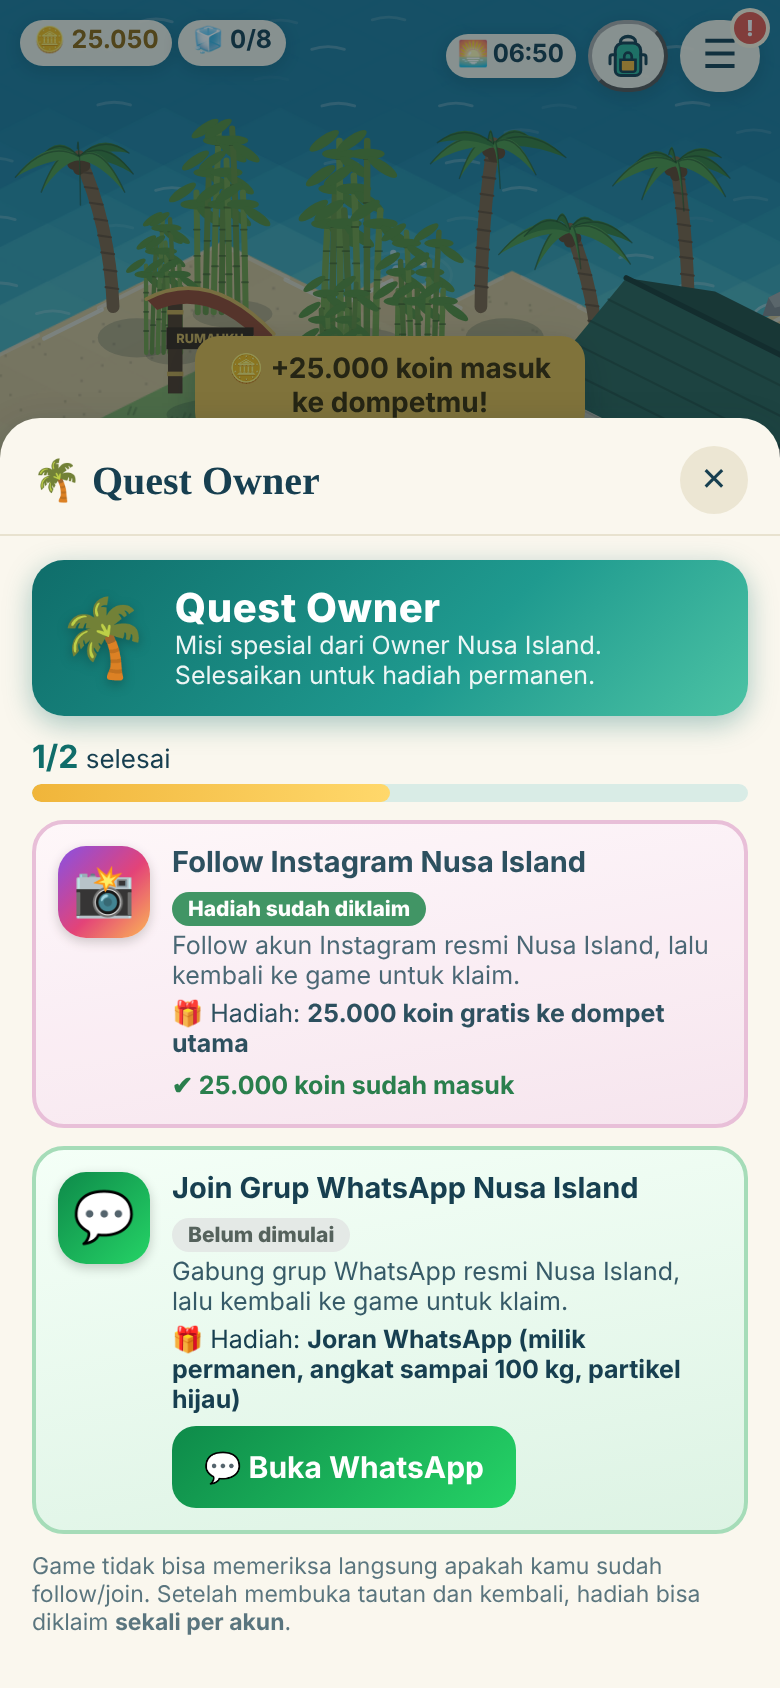
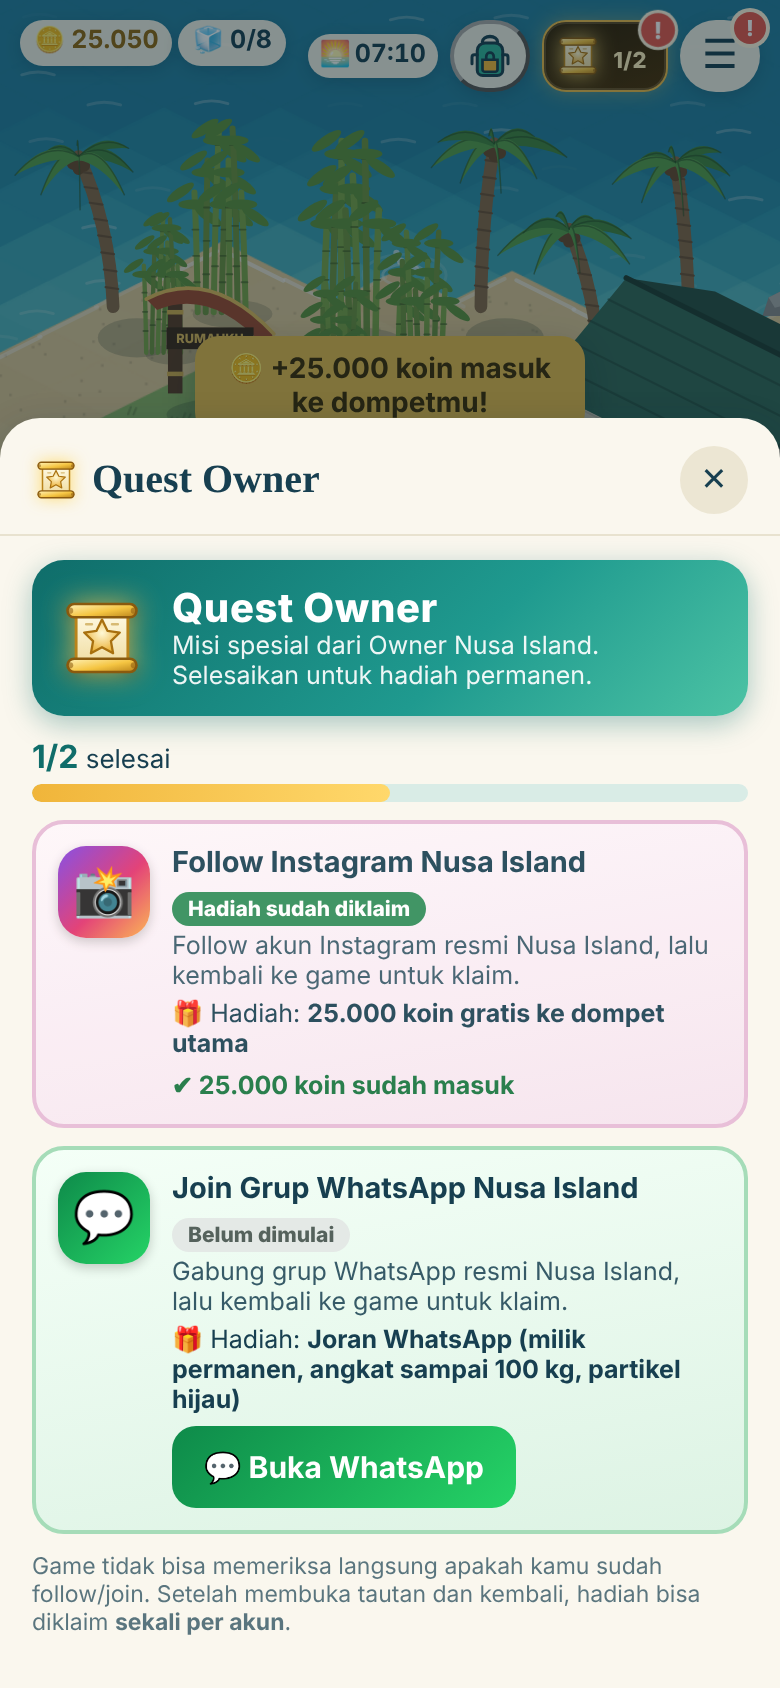
UI: tombol Quest Owner pindah ke HUD kanan atas (samping ☰) + ikon SVG gulungan emas
- Tombol mandiri (bukan .icon-btn) di samping ☰, progres 0/2 / 1/2, hilang otomatis setelah 2/2.
- Ikon emoji 🌴 diganti SVG gulungan misi emas + bintang (tombol, header panel, banner panel).
- Entri Quest Owner dihapus dari menu ☰. UI saja: quest, hadiah, joran, ekonomi, backend, Cloud Save tidak diubah.

Claude-Session: https://claude.ai/code/session_01HzrTpEtUrWmkd26RHnYqpj

diff --git a/questowner/questowner.js b/questowner/questowner.js
@@ -174,6 +174,22 @@ function rodAccent(c, bez, nrm, U, night) {
   c.restore();
 }
 
+// ---------- ikon SVG gulungan misi emas + bintang (pengganti emoji) ----------
+let iconSeq = 0;
+function icon(size) {
+  const k = "qoi" + (++iconSeq), n = size || 24;
+  return `<svg class="qo-ico" viewBox="0 0 32 32" width="${n}" height="${n}" aria-hidden="true" focusable="false"><defs>
+<linearGradient id="${k}g" x1="0" y1="0" x2="1" y2="1"><stop offset="0" stop-color="#fff2b8"/><stop offset=".55" stop-color="#f5c542"/><stop offset="1" stop-color="#b9831a"/></linearGradient>
+<linearGradient id="${k}p" x1="0" y1="0" x2="0" y2="1"><stop offset="0" stop-color="#fffbe6"/><stop offset="1" stop-color="#f0dca0"/></linearGradient>
+<radialGradient id="${k}s" cx=".5" cy=".4" r=".7"><stop offset="0" stop-color="#fff9d6"/><stop offset="1" stop-color="#e8a317"/></radialGradient></defs>
+<rect x="7" y="6.5" width="18" height="19" rx="2" fill="url(#${k}p)" stroke="#b9831a" stroke-width="1"/>
+<rect x="4" y="4.2" width="24" height="4.6" rx="2.3" fill="url(#${k}g)" stroke="#8a5a0e" stroke-width=".9"/>
+<rect x="4" y="23.2" width="24" height="4.6" rx="2.3" fill="url(#${k}g)" stroke="#8a5a0e" stroke-width=".9"/>
+<circle cx="4.9" cy="6.5" r="1.1" fill="#8a5a0e" opacity=".55"/><circle cx="27.1" cy="6.5" r="1.1" fill="#8a5a0e" opacity=".55"/><circle cx="4.9" cy="25.5" r="1.1" fill="#8a5a0e" opacity=".55"/><circle cx="27.1" cy="25.5" r="1.1" fill="#8a5a0e" opacity=".55"/>
+<path d="M16 9.6l1.9 3.9 4.3.6-3.1 3 .75 4.2L16 19.2l-3.85 2.1.75-4.2-3.1-3 4.3-.6z" fill="url(#${k}s)" stroke="#a8700f" stroke-width=".8" stroke-linejoin="round"/>
+<path d="M10.5 11.2h2M19.5 11.2h2" stroke="#c9a24a" stroke-width=".9" stroke-linecap="round" opacity=".7"/></svg>`;
+}
+
 // ---------- lencana & tombol HUD ----------
 function badge() {
   const btn = document.getElementById("questBtn"); if (!btn) return;
@@ -182,14 +198,18 @@ function badge() {
   btn.classList.toggle("hidden", finished);                         // semua selesai: tombol hilang; data & hadiah tetap
   const b = document.getElementById("questBadge"); if (b) b.classList.toggle("hidden", finished || (v.loaded && v.done >= v.total));
   btn.setAttribute("data-progress", v.loaded ? v.done + "/" + v.total : "");
+  const pg = document.getElementById("questProg"); if (pg) { const txt = v.loaded ? v.done + "/" + v.total : "0/" + v.total; if (pg.textContent !== txt) pg.textContent = txt; }
+  btn.setAttribute("aria-label", "Quest Owner: progres " + (v.loaded ? v.done : 0) + " dari " + v.total);
 }
 function hook() {
   migrate(S());
   const dex = document.getElementById("dexBtn"), hr = document.querySelector(".hud-right");
   if (hr && !document.getElementById("questBtn")) {
-    const b = document.createElement("button"); b.className = "chip icon-btn misi qo-btn"; b.id = "questBtn"; b.setAttribute("aria-label", "Quest Owner: hadiah spesial");
-    b.innerHTML = `🌴<span id="questBadge" class="badge story">!</span>`;
-    hr.insertBefore(b, document.getElementById("streakBtn") || dex || null);
+    // Tombol HUD mandiri (BUKAN .icon-btn → tidak ikut disembunyikan/ditarik ke menu ☰): berdampingan dengan ☰ di kanan atas
+    const b = document.createElement("button"); b.type = "button"; b.className = "chip qo-btn qo-hud"; b.id = "questBtn"; b.setAttribute("aria-label", "Quest Owner: hadiah spesial");
+    b.innerHTML = `${icon(24)}<span id="questProg" class="qo-prog">0/2</span><span id="questBadge" class="badge story qo-dot">!</span>`;
+    const menuBtn = document.getElementById("hudMenuBtn");
+    if (menuBtn && menuBtn.parentNode === hr) hr.insertBefore(b, menuBtn); else hr.appendChild(b);
     b.addEventListener("click", () => { sfx("click"); N().openPanel("questowner"); });
   }
   if (NW.questUI) NW.questUI.register();
@@ -212,6 +232,6 @@ document.addEventListener("click", (e) => {
   e.preventDefault(); sfx("click"); Promise.resolve(setEquip(b.getAttribute("data-qo-equip") === "1")).then(() => { try { N().renderPanel(); } catch (x) {} });
 });
 
-NW.quest = { _particles: () => P.length, Core: Q, SPEC, migrate, hook, view, refresh, open, claim, access, setEquip, rodOwned, rodOn, rodSpec, capFloor, visualOn, event, drawParticles, rodFx, rodAccent, rodRowHTML, bagCard,
+NW.quest = { icon, _particles: () => P.length, Core: Q, SPEC, migrate, hook, view, refresh, open, claim, access, setEquip, rodOwned, rodOn, rodSpec, capFloor, visualOn, event, drawParticles, rodFx, rodAccent, rodRowHTML, bagCard,
   onChange: (f) => R.listeners.push(f), _state: R };
 })();

diff --git a/questowner/questowner.css b/questowner/questowner.css
@@ -1,7 +1,7 @@
 /* NUSA ISLAND — Quest Owner. Nuansa tropis premium ringan; animasi hanya transform/opacity. */
 .qo { --teal: #1f9a8f; --teal-d: #0f6d6a; --sand: #fdf3d8; --gold: #f0b53a; padding-bottom: 8px; }
 .qo-hero { display: flex; gap: 12px; align-items: center; padding: 12px; border-radius: 16px; background: linear-gradient(135deg, #0f6d6a, #1f9a8f 60%, #4cc3a4); color: #fff; box-shadow: 0 4px 14px rgba(15, 109, 106, .35); }
-.qo-palm { font-size: 38px; line-height: 1; filter: drop-shadow(0 2px 3px rgba(0, 0, 0, .25)); }
+.qo-palm { line-height: 0; flex: 0 0 auto; filter: drop-shadow(0 0 7px rgba(255, 214, 90, .75)) drop-shadow(0 2px 3px rgba(0, 0, 0, .25)); }
 .qo-title { font-size: 20px; font-weight: 800; letter-spacing: .3px; } .qo-sub { font-size: 12.5px; opacity: .92; }
 .qo-prog { margin: 10px 0 6px; } .qo-progtxt { font-size: 13px; margin-bottom: 4px; } .qo-progtxt b { font-size: 16px; color: var(--teal-d); }
 .qo-bar { height: 9px; border-radius: 99px; background: #d9ece6; overflow: hidden; } .qo-bar i { display: block; height: 100%; border-radius: 99px; background: linear-gradient(90deg, #f0b53a, #ffd86b); transition: width .5s ease; }
@@ -26,3 +26,17 @@
 .qo-card.ready .pulse { animation: qoBeat 1.6s ease-in-out infinite; }
 @media (prefers-reduced-motion: reduce) { .qo *, .qo-bar i { animation-duration: .01ms !important; animation-iteration-count: 1 !important; transition: none !important; } }
 @media (max-width: 380px) { .qo-card { padding: 9px; gap: 9px; } .qo-ic { width: 40px; height: 40px; font-size: 22px; } }
+
+/* ---- Tombol HUD Quest Owner (kanan atas, di samping ☰) ---- */
+.hud-right > #hudMenuBtn { order: 10; }   /* ☰ tetap paling kanan; Quest Owner tepat di kirinya */
+.hud-right #questBtn.qo-hud { order: 9; position: relative; display: flex; align-items: center; justify-content: center; gap: 3px; min-width: 40px; height: 36px; padding: 0 7px 0 5px; cursor: pointer;
+  background: linear-gradient(160deg, #2b1c05, #4a3008); border: 1px solid #e8b94a; color: #ffe9a6; border-radius: 12px; box-shadow: 0 0 10px rgba(255, 205, 80, .35), inset 0 0 0 1px rgba(255, 240, 190, .18); }
+.hud-right #questBtn.qo-hud:active { transform: scale(.96); }
+.hud-right #questBtn.qo-hud:focus-visible { outline: 2px solid #fff6e0; outline-offset: 2px; }
+#questBtn .qo-ico { width: 24px; height: 24px; display: block; filter: drop-shadow(0 0 4px rgba(255, 214, 90, .8)); flex: 0 0 auto; }
+#questBtn .qo-prog { font: 800 11px/1 var(--font, system-ui); letter-spacing: .2px; color: #fff1c0; min-width: 22px; text-align: center; }
+#questBtn .qo-dot { position: absolute; top: -4px; right: -4px; min-width: 16px; height: 16px; border-radius: 8px; background: #e2574c; color: #fff; font: 800 11px/16px var(--font, system-ui); text-align: center; box-shadow: 0 0 0 1.5px #fff6e0; }
+.qo-ptitle { margin-left: 6px; vertical-align: middle; } #panelTitle .qo-ico { vertical-align: middle; filter: drop-shadow(0 0 4px rgba(255, 214, 90, .8)); }
+@media (max-width: 380px) { .hud-right #questBtn.qo-hud { min-width: 36px; padding: 0 5px 0 3px; } #questBtn .qo-ico { width: 21px; height: 21px; } #questBtn .qo-prog { font-size: 10px; min-width: 18px; } }
+@media (prefers-reduced-motion: no-preference) { #questBtn:not(.hidden) .qo-ico { animation: qoGlow 3.2s ease-in-out infinite; } }
+@keyframes qoGlow { 0%, 100% { filter: drop-shadow(0 0 3px rgba(255, 214, 90, .55)); } 50% { filter: drop-shadow(0 0 6px rgba(255, 224, 120, .95)); } }

diff --git a/questowner/ui.js b/questowner/ui.js
@@ -29,12 +29,13 @@ function render() {
   else if (v.error) note = `<div class="qo-note warn">${v.error} <button class="btn small" data-act="qoRetry">Coba Lagi</button></div>`;
   else if (v.loading && !v.loaded) note = `<div class="qo-note dim">Memuat…</div>`;
   const done = v.allDone ? `<div class="qo-note ok">🎉 Semua quest selesai! Hadiahmu permanen. Panel ini akan hilang otomatis.</div>` : "";
-  return `<div class="qo"><div class="qo-hero"><div class="qo-palm">🌴</div><div><div class="qo-title">Quest Owner</div><div class="qo-sub">Misi spesial dari Owner Nusa Island. Selesaikan untuk hadiah permanen.</div></div></div>
+  return `<div class="qo"><div class="qo-hero"><div class="qo-palm">${NW.quest ? NW.quest.icon(46) : ""}</div><div><div class="qo-title">Quest Owner</div><div class="qo-sub">Misi spesial dari Owner Nusa Island. Selesaikan untuk hadiah permanen.</div></div></div>
     <div class="qo-prog"><div class="qo-progtxt"><b>${v.loaded ? v.done : 0}/${v.total}</b> selesai</div><div class="qo-bar"><i style="width:${v.loaded ? pct : 0}%"></i></div></div>
     ${note}${done}${v.items.map((it) => card(it, v)).join("")}
     <div class="qo-fine">Game tidak bisa memeriksa langsung apakah kamu sudah follow/join. Setelah membuka tautan dan kembali, hadiah bisa diklaim <b>sekali per akun</b>.</div></div>`;
 }
 function after(body) {
+  try { const pt = document.getElementById("panelTitle"); if (pt && NW.quest) pt.innerHTML = NW.quest.icon(24) + '<span class="qo-ptitle">Quest Owner</span>'; } catch (e) {}
   clearInterval(timer);
   timer = setInterval(() => {
     if (N().currentPanel() !== "questowner") { clearInterval(timer); return; }
@@ -51,7 +52,7 @@ async function act(a, arg) {
   if (a === "qoClaim") { N().sfx("click"); const p = K.claim(arg); N().renderPanel(); await p; N().renderPanel(); }
 }
 function register() {
-  N().registerPanel("questowner", { title: () => "🌴 Quest Owner", render, act, after });
+  N().registerPanel("questowner", { title: () => "Quest Owner", render, act, after });
   NW.quest.onChange(() => { if (N().currentPanel() === "questowner") N().renderPanel(); });
 }
 NW.questUI = { register, render };

diff --git a/hud/menu.js b/hud/menu.js
@@ -14,7 +14,7 @@ const N = () => window.Nusa;
 // urutan & nama tampilan; tombol lain yang ditambahkan modul baru ikut otomatis (nama dari aria-label) di akhir
 const KNOWN = [
   ["worldBtn", "Bermain di Dunia"],
-  ["misiBtn", "Misi Harian"], ["questBtn", "Quest Owner"], ["streakBtn", "Hadiah Login 7 Hari"], ["evBtn", "Event Monster Legenda"], ["skillBtn", "Keahlian & Cerita"], ["advBtn", "Kompas & Petualangan"],
+  ["misiBtn", "Misi Harian"], ["streakBtn", "Hadiah Login 7 Hari"], ["evBtn", "Event Monster Legenda"], ["skillBtn", "Keahlian & Cerita"], ["advBtn", "Kompas & Petualangan"],
   ["dexBtn", "Koleksi Ikan"], ["crownBtn", "Nusa Premium"], ["avatarBtn", "Edit Avatar & Fashion"], ["friendsBtn", "Teman Online & Undangan"], ["acctBtn", "Profil & Akun"], ["recoverBtn", "Pulihkan Data"], ["serverBtn", "Server"], ["musicBtn", "Musik & Suara"], ["muteBtn", "Suara"],
 ];
 const ORDER = KNOWN.map((k) => k[0]), LABEL = Object.fromEntries(KNOWN);

diff --git a/tests/browser/test_quest_owner.py b/tests/browser/test_quest_owner.py
@@ -53,14 +53,25 @@ with sync_playwright() as p:
         ok("1 akun baru: tombol 🌴 Quest Owner tampil di HUD kanan atas + lencana", ev(pg, "(()=>{const b=document.getElementById('questBtn');return !!b&&!b.classList.contains('hidden')&&!document.getElementById('questBadge').classList.contains('hidden')})()"))
         ok("1b tombol tidak menutupi tombol HUD lain (semua tombol HUD lain tetap ada & terlihat)", ev(pg, "['avatarBtn','skillBtn','misiBtn','dexBtn','musicBtn','muteBtn','streakBtn','hudMenuBtn'].every(id=>{const e=document.getElementById(id);return !e||e.classList.contains('hidden')||getComputedStyle(e).display!=='none'||getComputedStyle(document.documentElement).display})"))
         boot(pg); money0 = BAL(pg)
+        GEO = "(()=>{const q=document.getElementById('questBtn'),m=document.getElementById('hudMenuBtn');if(!q||!m)return null;const a=q.getBoundingClientRect(),c=m.getBoundingClientRect();const vis=[...document.querySelectorAll('.hud-right > *')].filter(e=>e!==q&&e.offsetParent!==null&&getComputedStyle(e).visibility!=='hidden');const hit=vis.filter(e=>{const r=e.getBoundingClientRect();return !(r.right<=a.left+0.5||r.left>=a.right-0.5||r.bottom<=a.top+0.5||r.top>=a.bottom-0.5)}).map(e=>e.id||e.className);return {left:a.left,right:a.right,top:a.top,bottom:a.bottom,mLeft:c.left,mTop:c.top,vw:innerWidth,vh:innerHeight,gap:c.left-a.right,sameRow:Math.abs(a.top-c.top)<6,hit}})()"
+        g = ev(pg, GEO)
+        ok("1c HP: tombol Quest Owner di HUD kanan atas, tepat di samping ☰ (satu baris, jarak kecil)", g and g["sameRow"] and 0 <= g["gap"] <= 12 and g["right"] <= g["vw"] and g["top"] >= 0, g)
+        ok("1c2 HP: tidak bertabrakan dengan tombol HUD lain", g and g["hit"] == [], g and g["hit"])
+        ok("1c3 progres terlihat di tombol (0/2) & ikon = SVG (bukan emoji 🌴)", ev(pg, "(()=>{const b=document.getElementById('questBtn');return b.querySelector('svg.qo-ico')!==null&&!/🌴/.test(b.innerText)&&document.getElementById('questProg').textContent==='0/2'})()"))
+        boot(pg); money0 = BAL(pg)
         ev(pg, "document.getElementById('hudMenuBtn').click()"); time.sleep(0.5)
-        tile = ev(pg, "(()=>{const t=[...document.querySelectorAll('.hm-tile')].find(b=>/Quest Owner/.test(b.innerText||b.getAttribute('aria-label')||''));return t?(t.innerText||'').replace(/\\n/g,' '):null})()")
-        ok("1c HP: tombol Quest Owner ada di menu ☰ HUD (ubin 'Quest Owner' + tanda !)", tile is not None and "Quest Owner" in tile, tile)
-        shot(pg, "01-hp-menu-hud-ubin-quest-owner")
-        ev(pg, "document.getElementById('hudMenuBtn').click()"); time.sleep(0.7)
+        ok("1d entri Quest Owner dihapus dari menu ☰ (tidak dobel)", not ev(pg, "[...document.querySelectorAll('.hm-tile')].some(t=>/Quest Owner/.test(t.innerText||t.dataset.for||''))") and not ev(pg, "!!document.querySelector('.hm-tile[data-for=questBtn]')"))
+        ev(pg, "document.getElementById('hudMenuBtn').click()"); time.sleep(0.5)
+        shot(pg, "01-hp-hud-tombol-quest-owner")
+        # layar sempit 360x740 (HP kecil) + landscape pendek
+        for (w, h, nm) in ((360, 740, "hp-360"), (740, 360, "hp-landscape")):
+            ctxs = b.new_context(viewport={"width": w, "height": h}, device_scale_factor=2, has_touch=True, is_mobile=True); ctxs, pgs, errss = page(b, ctxs); boot(pgs)
+            gs = ev(pgs, GEO); ok("1e %s: tombol di baris ☰, tidak keluar layar & tidak bertabrakan" % nm, gs and gs["sameRow"] and gs["right"] <= gs["vw"] and gs["hit"] == [], gs)
+            if w == 360: shot(pgs, "01c-hp-360-hud")
+            ctxs.close()
         ctxd = b.new_context(viewport={"width": 1280, "height": 720}); ctxd, pgd, errsd = page(b, ctxd); boot(pgd)
-        ev(pgd, "document.getElementById('hudMenuBtn').click()"); time.sleep(0.5)
-        ok("1d desktop: ubin Quest Owner ada di menu ☰ (ikon HUD lama memang disatukan di ☰) + lencana ! pada ☰", ev(pgd, "[...document.querySelectorAll('.hm-tile')].some(t=>/Quest Owner/.test(t.innerText))") and ev(pgd, "!document.getElementById('hudMenuBadge').classList.contains('hidden')"))
+        gd = ev(pgd, GEO)
+        ok("1f desktop: tombol di samping ☰, tanpa tabrakan, menu ☰ tanpa ubin Quest Owner", gd and gd["sameRow"] and gd["hit"] == [] and not ev(pgd, "!!document.querySelector('.hm-tile[data-for=questBtn]')"), gd)
         shot(pgd, "01b-desktop-hud-tombol-quest-owner"); ctxd.close()
         # ===== 2. panel di HP =====
         ev(pg, "document.getElementById('questBtn').click()") if ev(pg, "getComputedStyle(document.getElementById('questBtn')).display!=='none'") else ev(pg, "Nusa.openPanel('questowner')")

diff --git a/tests/browser/test_ui41.py b/tests/browser/test_ui41.py
@@ -36,7 +36,7 @@ def main():
             # ===== 1. HUD bersih =====
             ctxA, A, errs = page(b, "demo-a", "Budi", streak=True); wait_for(A, "NW.streak._state.loaded", 8); online(A)
             vis_icons = ev(A, "[...document.querySelectorAll('.hud-right > button')].filter(b=>{const c=getComputedStyle(b);return c.display!=='none'}).map(b=>b.id)")
-            ok("1a hanya SATU tombol menu yang terlihat di kanan atas (☰)", vis_icons == ["hudMenuBtn"], vis_icons)
+            ok("1a ikon lama tetap disatukan di ☰: hanya ☰ + tombol mandiri sah (Tas, Quest Owner) yang terlihat di kanan atas", "hudMenuBtn" in vis_icons and set(vis_icons) <= {"hudMenuBtn", "bagBtn", "questBtn"}, vis_icons)
             ok("1b saldo, coolbox, dan waktu tetap di HUD", vis(A, "#money") and vis(A, "#cooler") and vis(A, "#clock"))
             hr = rect(A, ".hud-right"); mb = rect(A, "#hudMenuBtn")
             ok("1c HUD kanan satu baris & tombol ☰ ≥ 36 px (nyaman disentuh)", hr["h"] < 50 and mb["w"] >= 36 and mb["h"] >= 34, (hr["h"], mb["w"], mb["h"]))
